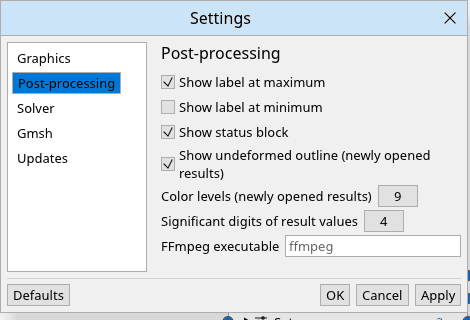
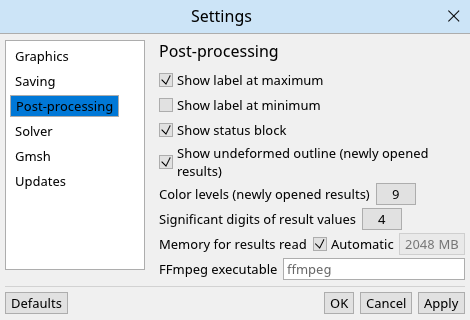
Bound the memory results take while fields are clicked through
- Memory for results read (Settings > Post-processing): the budget of the
  cache of result fields, Automatic = a quarter of the memory free at
  start, 256 MB to 2 GB (was a fixed 2 GB).
- The scenes of animation frames shown were kept without limit until the
  field changed (about 0.3 GB for 400 frames of a 44,000-node beam); now as
  many as fit into a quarter of the budget, the rest built when shown.
- glibc: large blocks stay in mappings of their own (fixed mmap
  threshold), so that fields the cache drops go back to the system
  (340 MB less with a 512 MB budget).
- A results file given on the command line was read as an input file
  (2.7 GB for a 2.8 GB file, then failed); now it gets the same note as a
  dropped one.

Animating 400 frames through six fields: 3.1 GB before, 2.7 GB with the
automatic budget, 0.8 GB with 512 MB.

Claude-Session: https://claude.ai/code/session_0117wmBLKSuJjQQiT5FWv3UE

Changed region(s): [[0.0, 0.0, 1.0, 1.0], [0.4468, 0.9688, 0.6255, 1.0], [0.0, 0.0, 0.0298, 0.0312]]

diff --git a/crates/plx-app/src/app.rs b/crates/plx-app/src/app.rs
@@ -166,8 +166,8 @@ struct Workbench {
     highlight_changed: Option<BTreeSet<usize>>,
     /// Only the animation frame changed; frames already built are reused.
     frame_changed: bool,
-    /// Scene of each animation frame shown so far, cleared when anything else changes.
-    frame_cache: std::collections::HashMap<usize, Vec<RenderMesh>>,
+    /// Scene of the animation frames shown so far, cleared when anything else changes.
+    frame_cache: FrameCache,
     /// Open dialog creating or editing an item of the FE model.
     editor: Option<Editor>,
     /// The step new boundary conditions, loads, outputs and defined fields go into, by name;
@@ -887,6 +887,16 @@ impl AnalysisWindow {
         if self.loading.is_some() {
             return;
         }
+        // A results file on the command line is not read as a mesh (a binary results file
+        // would be read whole to fail); like a dropped one, it is not opened on its own.
+        let (results, paths): (Vec<PathBuf>, Vec<PathBuf>) =
+            paths.into_iter().partition(|p| is_results_file(p));
+        if !results.is_empty() {
+            self.workbench.output.push(RESULTS_NOT_ALONE.into());
+        }
+        if paths.is_empty() {
+            return;
+        }
         let sender = self.load_events.0.clone();
         let ctx = ctx.clone();
         let units = self.workbench.import_units();
@@ -1148,6 +1158,50 @@ pub fn export_calculix_results(
     }
     Ok(())
 }
+
+/// The scenes of the animation frames shown so far, so that a looping animation does not
+/// build them again: as many as fit into a quarter of the memory for result fields
+/// ([`plx_results::values::budget`]); the frames beyond are built each time they are shown.
+#[derive(Default)]
+struct FrameCache {
+    frames: std::collections::HashMap<usize, Vec<RenderMesh>>,
+    bytes: usize,
+    /// The scene of the last frame that did not fit.
+    uncached: Vec<RenderMesh>,
+}
+
+impl FrameCache {
+    fn clear(&mut self) {
+        self.frames.clear();
+        self.bytes = 0;
+        self.uncached.clear();
+    }
+
+    /// The scene of `frame`, built by `build` unless it is kept; kept if the frames take no
+    /// more than `limit` bytes with it.
+    fn get(
+        &mut self,
+        frame: usize,
+        limit: usize,
+        build: impl FnOnce() -> Vec<RenderMesh>,
+    ) -> &Vec<RenderMesh> {
+        if self.frames.contains_key(&frame) {
+            return &self.frames[&frame];
+        }
+        let meshes = build();
+        let bytes: usize = meshes.iter().map(RenderMesh::bytes).sum();
+        if self.bytes + bytes <= limit {
+            self.bytes += bytes;
+            return self.frames.entry(frame).or_insert(meshes);
+        }
+        self.uncached = meshes;
+        &self.uncached
+    }
+}
+
+/// Why a results file given to an analysis is not opened.
+const RESULTS_NOT_ALONE: &str = "Results files are not opened on their own: the Results tab \
+     shows the results of the analysis (Solve).";
 
 /// Whether a file is a results file: CalculiX's (`.frd`) or the built-in solver's (`.ndlr`).
 pub fn is_results_file(path: &std::path::Path) -> bool {
@@ -1640,11 +1694,7 @@ impl AnalysisWindow {
         let (results, dropped): (Vec<PathBuf>, Vec<PathBuf>) =
             dropped.into_iter().partition(|p| is_results_file(p));
         if !results.is_empty() {
-            self.workbench.output.push(
-                "Results files are not opened on their own: the Results tab shows the \
-                 results of the analysis (Solve)."
-                    .into(),
-            );
+            self.workbench.output.push(RESULTS_NOT_ALONE.into());
         }
         if !dropped.is_empty() {
             self.import_paths(dropped, &ctx);
@@ -7293,6 +7343,7 @@ impl Workbench {
         }
         new.solver.apply_gpu();
         crate::results::set_significant_digits(new.post.digits);
+        plx_results::values::set_budget(new.post.results_memory_bytes());
         if new.graphics.theme != self.settings.graphics.theme {
             crate::style::set_theme(ctx, new.graphics.theme);
         }
@@ -7779,10 +7830,10 @@ impl Workbench {
         }
         let fresh;
         let meshes: &Vec<RenderMesh> = match frame {
-            Some(frame) => self
-                .frame_cache
-                .entry(frame)
-                .or_insert_with(|| model.scene_meshes()),
+            Some(frame) => {
+                let limit = plx_results::values::budget() / 4;
+                self.frame_cache.get(frame, limit, || model.scene_meshes())
+            }
             None => {
                 fresh = model.scene_meshes();
                 &fresh
@@ -8409,6 +8460,29 @@ fn keep_up_to_date(
 #[cfg(test)]
 mod tests {
     use super::*;
+
+    #[test]
+    fn animation_frames_are_kept_while_they_fit() {
+        let mesh = |n: usize| {
+            vec![RenderMesh {
+                triangles: Vec::with_capacity(n),
+                ..Default::default()
+            }]
+        };
+        let mut cache = FrameCache::default();
+        let mut builds = 0;
+        for frame in [0, 1, 2, 0, 1, 2] {
+            cache.get(frame, 2000, || {
+                builds += 1;
+                mesh(250)
+            });
+        }
+        // 1000 bytes a frame: two are kept, the third is built each time it is shown.
+        assert_eq!(builds, 4);
+        assert_eq!(cache.bytes, 2000);
+        cache.clear();
+        assert!(cache.frames.is_empty() && cache.bytes == 0);
+    }
 
     #[test]
     fn bound_results_keep_the_workspace_the_project_window_asked_for() {

diff --git a/crates/plx-app/src/settings.rs b/crates/plx-app/src/settings.rs
@@ -121,6 +121,29 @@ pub struct PostProcessing {
     pub digits: u32,
     /// FFmpeg for exporting animations as MP4 or MKV; empty for `ffmpeg` on the `PATH`.
     pub ffmpeg: String,
+    /// Megabytes of result fields read from the results files that stay in memory for going
+    /// back to them; `None` for [`PostProcessing::automatic_results_memory`].
+    pub results_memory: Option<u32>,
+}
+
+impl PostProcessing {
+    /// The memory for result fields chosen by itself: a quarter of what is free when
+    /// Nodalis starts, at least 256 MB and at most 2 GB.
+    pub fn automatic_results_memory() -> u32 {
+        static AUTOMATIC: std::sync::OnceLock<u32> = std::sync::OnceLock::new();
+        *AUTOMATIC.get_or_init(|| {
+            let free = plxs_linalg::memory::available_memory().unwrap_or(8 << 30);
+            ((free / 4) >> 20).clamp(256, 2048) as u32
+        })
+    }
+
+    /// Bytes of result fields kept in memory.
+    pub fn results_memory_bytes(&self) -> usize {
+        let megabytes = self
+            .results_memory
+            .unwrap_or_else(Self::automatic_results_memory);
+        (megabytes as usize) << 20
+    }
 }
 
 impl Default for PostProcessing {
@@ -133,6 +156,7 @@ impl Default for PostProcessing {
             levels: plx_render::contour::DEFAULT_LEVELS,
             digits: 4,
             ffmpeg: String::new(),
+            results_memory: None,
         }
     }
 }
@@ -576,6 +600,38 @@ impl SettingsWindow {
                             "Digits shown in the legend, labels, Query, tables and plots. \
                          The stored values are not rounded.",
                         );
+                });
+                ui.horizontal(|ui| {
+                    ui.label("Memory for results read");
+                    let mut automatic = p.results_memory.is_none();
+                    let tip = "Result fields are read from the results file when they are \
+                         shown and stay in memory for going back to them, up to this much; \
+                         beyond it, those used longest ago are dropped and read again when \
+                         wanted. Automatic takes a quarter of the memory free when Nodalis \
+                         starts, at least 256 MB and at most 2 GB.";
+                    if ui
+                        .checkbox(&mut automatic, "Automatic")
+                        .on_hover_text(tip)
+                        .changed()
+                    {
+                        p.results_memory =
+                            (!automatic).then(PostProcessing::automatic_results_memory);
+                    }
+                    let mut megabytes = p
+                        .results_memory
+                        .unwrap_or_else(PostProcessing::automatic_results_memory);
+                    let edited = ui
+                        .add_enabled(
+                            !automatic,
+                            numeric::drag_value(&mut megabytes)
+                                .range(64..=65536)
+                                .suffix(" MB"),
+                        )
+                        .on_hover_text(tip)
+                        .changed();
+                    if edited {
+                        p.results_memory = Some(megabytes);
+                    }
                 });
                 ui.horizontal(|ui| {
                     ui.label("FFmpeg executable");

diff --git a/crates/plx-app/src/allocator.rs b/crates/plx-app/src/allocator.rs
@@ -1,0 +1,22 @@
+//! How the C library's allocator hands memory back on Linux.
+//!
+//! glibc serves an allocation of 128 kB or more by a mapping of its own, unmapped when it is
+//! freed, but raises that threshold up to 32 MB as such blocks are freed. Result fields
+//! read from the results file (a component of 44,000 nodes is 176 kB) then come from the
+//! heaps of the threads that read them, and the fields the cache drops leave holes there
+//! that are not given back: with 512 MB of fields kept, the program held 340 MB more than
+//! with the threshold fixed. Fixing it keeps the memory near what the program holds.
+
+/// Keeps large blocks in mappings of their own; does nothing outside glibc.
+pub fn give_back_large_blocks() {
+    #[cfg(all(target_os = "linux", target_env = "gnu"))]
+    #[allow(unsafe_code)]
+    // SAFETY: mallopt only sets a parameter of the allocator; called before other threads run.
+    unsafe {
+        unsafe extern "C" {
+            fn mallopt(param: std::ffi::c_int, value: std::ffi::c_int) -> std::ffi::c_int;
+        }
+        const M_MMAP_THRESHOLD: std::ffi::c_int = -3;
+        mallopt(M_MMAP_THRESHOLD, 128 * 1024);
+    }
+}

diff --git a/crates/plx-app/src/project.rs b/crates/plx-app/src/project.rs
@@ -2337,6 +2337,7 @@ impl ProjectApp {
         settings.upgrade();
         settings.solver.apply_gpu();
         crate::results::set_significant_digits(settings.post.digits);
+        plx_results::values::set_budget(settings.post.results_memory_bytes());
         crate::style::set_theme(&cc.egui_ctx, settings.graphics.theme);
         plx_mesher::set_library_path(settings.gmsh.library());
         let units = crate::units_menu::first(settings.new_model.units);
@@ -8318,6 +8319,7 @@ impl ProjectApp {
         if new.graphics.theme != self.settings.graphics.theme {
             crate::style::set_theme(ctx, new.graphics.theme);
         }
+        plx_results::values::set_budget(new.post.results_memory_bytes());
         // The View tab owns these toggles; the window's copy may be older than a click there.
         let mut new = new;
         let live = &self.settings.graphics;

diff --git a/crates/plx-render/src/mesh.rs b/crates/plx-render/src/mesh.rs
@@ -69,6 +69,22 @@ pub struct RenderMesh {
 }
 
 impl RenderMesh {
+    /// Bytes the mesh takes in memory.
+    pub fn bytes(&self) -> usize {
+        fn of<T>(items: &Vec<T>) -> usize {
+            items.capacity() * std::mem::size_of::<T>()
+        }
+        of(&self.vertices)
+            + of(&self.triangles)
+            + of(&self.feature_edges)
+            + of(&self.mesh_edges)
+            + of(&self.wireframe_edges)
+            + of(&self.wide_edges)
+            + of(&self.glyphs)
+            + of(&self.origins)
+            + of(&self.directions)
+    }
+
     /// Adds another mesh to this one, e.g. a transformed copy of a part.
     pub fn append(&mut self, other: RenderMesh) {
         let base = self.vertices.len() as u32;

diff --git a/crates/plx-app/src/main.rs b/crates/plx-app/src/main.rs
@@ -1,5 +1,6 @@
 #![cfg_attr(not(debug_assertions), windows_subsystem = "windows")]
 
+mod allocator;
 mod amplitude_dialog;
 #[cfg(test)]
 mod test_ids {
@@ -116,6 +117,7 @@ fn main() -> eframe::Result {
     if let Some(code) = meshing::worker_main() {
         std::process::exit(code);
     }
+    allocator::give_back_large_blocks();
     crash_log::install();
     if let Ok(program) = std::env::current_exe() {
         meshing::set_worker(program);

diff --git a/crates/plx-results/src/values.rs b/crates/plx-results/src/values.rs
@@ -351,6 +351,11 @@ pub fn set_budget(bytes: usize) {
     cache.trim(0);
 }
 
+/// How many bytes of read fields the cache keeps at most ([`set_budget`]).
+pub fn budget() -> usize {
+    cache().budget
+}
+
 /// The bytes of read fields the cache holds.
 pub fn cached_bytes() -> usize {
     cache().used
